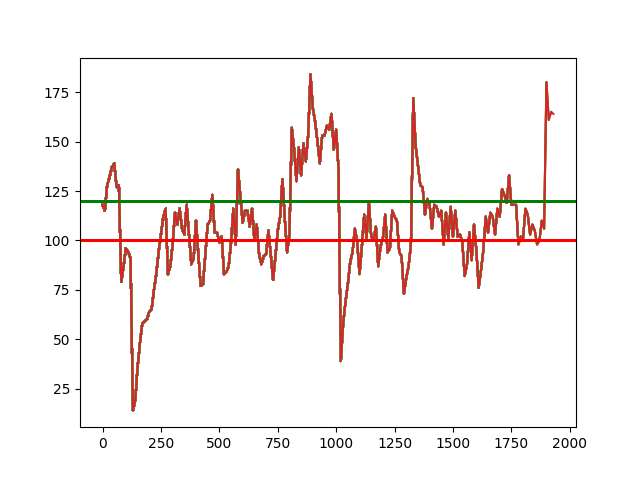
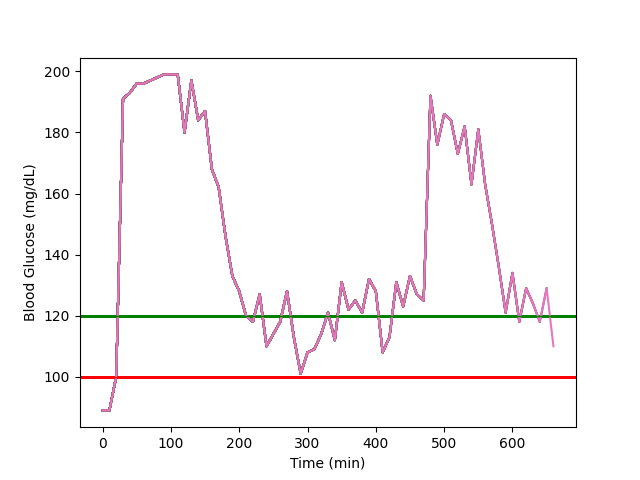
Added comments. Added README.md. Refactoring code to make it more readable. Fixed behaviour of insulin pump when outside of safe range.

diff --git a/Blood.py b/Blood.py
@@ -4,55 +4,53 @@ import settings
 import numpy as np
 import matplotlib.pyplot as plt
 
-class Blood:
-    minute = 0
-    glucose_measurements = []
-    minutes = []
-    glucose = 0
-    insulin = 0
 
-    # Instance attribute
+class Blood:
+
+    # Set instance attributes
     def __init__(self, glucose=settings.DEFAULT_BLOOD_GLUCOSE, insulin=settings.DEFAULT_BLOOD_INSULIN):
         self.glucose = glucose
         self.insulin = insulin
+        self.minute = 0
+        self.glucose_measurements = []
+        self.minutes = []
 
+    # Iteratively run every simulation frame.
     def run(self):
         self.glucose = self.get_next_blood_glucose()
         self.glucose_measurements.append(self.glucose)
         self.minutes.append(self.minute)
-        plt.plot(self.minutes, self.glucose_measurements)  # Plot the chart
-        plt.axline((0, settings.BLOOD_GLUCOSE_LOW_BOUNDARY), (1, settings.BLOOD_GLUCOSE_LOW_BOUNDARY), linewidth=2, color='r')
-        plt.axline((0, settings.BLOOD_GLUCOSE_HIGH_BOUNDARY), (1, settings.BLOOD_GLUCOSE_HIGH_BOUNDARY), linewidth=2, color='g')
-        plt.savefig('blood_graph.png')
+        self.save_line_graph_of_blood_glucose_png()
+        self.metabolize_insulin()
         self.minute = self.minute + 10
-        if self.insulin - settings.INSULIN_BLEED < 0 or self.insulin == 0:
-            self.insulin = 0
-        else:
-            self.insulin = self.insulin - settings.INSULIN_BLEED
 
+    # Per project requirements, the blood lgucose has a random component, but operates by having a "next glucose reading"
+    # that is adjecent to the current one. So, the glucose follows a trend.
     def get_next_blood_glucose(self):
-        anomaly = np.random.choice([True, False], p=[settings.PROBABILITY_OF_BLOOD_GLUCOSE_ANOMALY, 1 - settings.PROBABILITY_OF_BLOOD_GLUCOSE_ANOMALY])
+        anomaly = np.random.choice([True, False], p=[settings.PROBABILITY_OF_BLOOD_GLUCOSE_ANOMALY,
+                                                     1 - settings.PROBABILITY_OF_BLOOD_GLUCOSE_ANOMALY])
         if anomaly:
             glucose = np.random.choice(np.arange(settings.BLOOD_GLUCOSE_MIN, settings.BLOOD_GLUCOSE_MAX))
             return glucose
+
+        # Using two reference arrays, one with insulin value possibilities corresponding to another array with
+        # probabilities of glucose going down with a given blood insulin amount,
+        position_of_blood_insulin_rounded_in_reference_array = settings.BLOOD_INSULIN_LEVEL_REFERENCE.index(
+            math.ceil(self.insulin))
+        probability_blood_glucose_down = settings.PROBABILITY_OF_BLOOD_GLUCOSE_DECREASE_REFERENCE[
+            position_of_blood_insulin_rounded_in_reference_array]
+        glucose_down = np.random.choice([True, False],
+                                        p=[probability_blood_glucose_down, 1 - probability_blood_glucose_down])
+        # Now that we have chosen glucose up or down, we choose a new glucose, going either up or down within a window.
+        if glucose_down:
+            blood_glucose_change_window = np.arange(
+                max(settings.BLOOD_GLUCOSE_MIN, self.glucose - settings.TYPICAL_BLOOD_GLUCOSE_VARIATION), self.glucose)
+        # Case: glucose up
         else:
-            position_of_blood_insulin_rounded_in_reference_array = settings.BLOOD_INSULIN_LEVEL_REFERENCE.index(math.ceil(self.insulin))
-            probability_blood_glucose_down = settings.PROBABILITY_OF_BLOOD_GLUCOSE_DECREASE_REFERENCE[position_of_blood_insulin_rounded_in_reference_array]
-            glucose_down = np.random.choice([True, False], p=[probability_blood_glucose_down, 1 - probability_blood_glucose_down])
-            if glucose_down:
-                if self.glucose - settings.TYPICAL_BLOOD_GLUCOSE_VARIATION < settings.BLOOD_GLUCOSE_MIN or self.glucose == settings.BLOOD_GLUCOSE_MIN:
-                    lower_number = settings.BLOOD_GLUCOSE_MIN
-                else:
-                    lower_number = self.glucose - settings.TYPICAL_BLOOD_GLUCOSE_VARIATION
-                blood_glucose_change_window = np.arange(lower_number, self.glucose + 1)
-            else:
-                if self.glucose + settings.TYPICAL_BLOOD_GLUCOSE_VARIATION > settings.BLOOD_GLUCOSE_MAX or self.glucose == settings.BLOOD_GLUCOSE_MAX:
-                    higher_number = settings.BLOOD_GLUCOSE_MAX
-                else:
-                    higher_number = self.glucose + settings.TYPICAL_BLOOD_GLUCOSE_VARIATION
-                blood_glucose_change_window = np.arange(self.glucose, higher_number)
-            glucose = np.random.choice(blood_glucose_change_window)
-            return glucose
+            blood_glucose_change_window = np.arange(self.glucose, min(settings.BLOOD_GLUCOSE_MAX,
+                                                                      self.glucose + settings.TYPICAL_BLOOD_GLUCOSE_VARIATION))
+        glucose = np.random.choice(blood_glucose_change_window)
+        return glucose
 
     def get_glucose(self):
         return self.glucose
@@ -64,15 +62,29 @@ class Blood:
         if len(self.glucose_measurements) >= 3:
             vf = (self.glucose_measurements[-1] - self.glucose_measurements[-2]) / time_interval_minutes
             vi = (self.glucose_measurements[-2] - self.glucose_measurements[-3]) / time_interval_minutes
-            #print("Glucose[-1]: " + str(self.glucose_measurements[-1]))
-            #print("Glucose[-2]: " + str(self.glucose_measurements[-2]))
-            #print("vi: " + str(vi))
-            #print("vf: " + str(vf))
             return (vf - vi) / time_interval_minutes
         return 0
 
     def on_insulin_injected(self, amount):
-        if self.insulin + amount > settings.BLOOD_INSULIN_LEVEL_REFERENCE[-1] or self.insulin == settings.BLOOD_INSULIN_LEVEL_REFERENCE[-1]:
+        if self.insulin + amount > settings.BLOOD_INSULIN_LEVEL_REFERENCE[-1] or self.insulin == \
+                settings.BLOOD_INSULIN_LEVEL_REFERENCE[-1]:
             self.insulin = settings.BLOOD_INSULIN_LEVEL_REFERENCE[-1]
         else:
             self.insulin = self.insulin + amount
+
+    def metabolize_insulin(self):
+        if self.insulin - settings.INSULIN_UNITS_METABOLIZED_PER_10_MIN < 0 or self.insulin == 0:
+            self.insulin = 0
+        else:
+            self.insulin = self.insulin - settings.INSULIN_UNITS_METABOLIZED_PER_10_MIN
+
+    # Purely Visual
+    def save_line_graph_of_blood_glucose_png(self):
+        plt.plot(self.minutes, self.glucose_measurements)  # Plot the chart
+        plt.axline((0, settings.BLOOD_GLUCOSE_LOW_BOUNDARY), (1, settings.BLOOD_GLUCOSE_LOW_BOUNDARY), linewidth=1,
+                   color='r')
+        plt.axline((0, settings.BLOOD_GLUCOSE_HIGH_BOUNDARY), (1, settings.BLOOD_GLUCOSE_HIGH_BOUNDARY), linewidth=1,
+                   color='g')
+        plt.xlabel('Time (min)')
+        plt.ylabel('Blood Glucose (mg/dL)')
+        plt.savefig('blood_graph.png')

diff --git a/prg.py b/prg.py
@@ -1,56 +1,71 @@
-# Design: 1.5 hrs
-# Writing Logic: 2 hr
-# Troubleshooting graphic issues: 4 hr
-# Testing: 7 hr
+
+# prg is the main part of the software that runs in a loop to simulate everything.
 
 import PySimpleGUI as psg
-import multiprocessing
-import matplotlib.pyplot as plt
-import numpy as np
-import time
 import settings
 from Blood import Blood
 from InsulinPump import InsulinPump
 
+
+# Update the "Auto-run" Text Button  text based on auto-run status of prg.
 def update_auto_run_text(auto_run, window):
     if auto_run:
         window["AutoRun"].update("AUTORUN: YES")
     else:
         window["AutoRun"].update("AUTORUN: NO")
 
+# Update the text for the alarm indicator
 def update_alarm_text(alarm, window):
     if alarm:
         window["Alarm"].update("ALARM: ARMED")
     else:
         window["Alarm"].update("ALARM: DISABLED")
 
+# Logic for making program automatically run or not.
 def get_timeout_based_on_auto_run(auto_run):
     if auto_run:
         return settings.TIME_BETWEEN_FRAMES_MS
     return None
 
+# Update all gui states at once.
+def update_gui(window, blood):
+    window["Image"].update(filename='blood_graph.png')
+    window["Insulin"].update(str(round(blood.get_insulin(), 2)) + " UNITS")
+    window["Glucose"].update(str(round(blood.get_glucose(), 2)) + " mg/dL")
+    window["PumpPower"].update(str(pump.power_state))
+    window["Battery"].update(str(round((pump.battery_voltage / settings.BATTERY_CAPACITY_MAX_VOLTAGE) * 100)) + "%")
+    update_auto_run_text(auto_run, window)
+    update_alarm_text(alarm, window)
+
+# Main loop to simulate everything
 if __name__ == "__main__":
-    # plt.ion()
+    # Initializing all variables
+    # PySimpleGui offers many themes and layout options. Set those here.
     psg.theme('Reddit')
-    layout = [[psg.Text('PUMP POWER.......................................................................'), psg.Text(key="PumpPower", text=settings.INSULIN_PUMP_DEFAULT_POWER_STATE)],
-              [psg.Text('BATTERY...............................................................................'), psg.Text(key="Battery", text="0")],
-              [psg.Text('INSULIN IN BLOODSTREAM:................................................'), psg.Text(key="Insulin", text="0")],
-              [psg.Text('GLUCOSE.............................................................................'), psg.Text(key="Glucose", text="0")],
+    layout = [[psg.Text('PUMP POWER.......................................................................'),
+               psg.Text(key="PumpPower", text=settings.INSULIN_PUMP_DEFAULT_POWER_STATE)],
+              [psg.Text('BATTERY...............................................................................'),
+               psg.Text(key="Battery", text="0")],
+              [psg.Text('INSULIN IN BLOODSTREAM:................................................'),
+               psg.Text(key="Insulin", text="0")],
+              [psg.Text('GLUCOSE.............................................................................'),
+               psg.Text(key="Glucose", text="0")],
               [psg.Image(key="Image", filename='blood_graph.png')],
-              [psg.Button(key="On", button_text='ON'), psg.Button(key="Off", button_text="OFF"), psg.Button(button_text="ADVANCE"), psg.Button(key="AutoRun", button_text="AUTORUN"), psg.Button(key="Alarm", button_text="ALARM")]]
-
-    # Create the Window
+              [psg.Button(key="On", button_text='ON'), psg.Button(key="Off", button_text="OFF"),
+               psg.Button(button_text="ADVANCE"), psg.Button(key="AutoRun", button_text="AUTORUN"),
+               psg.Button(key="Alarm", button_text="ALARM")]]
+    # UI pop up here
     window = psg.Window('Window Title', layout)
-
     pump = InsulinPump()
     blood = Blood()
     auto_run = settings.AUTO_ADVANCE_ANIMATION
     alarm = settings.ALARM_ENABLED
     timeout = get_timeout_based_on_auto_run(auto_run)
 
+    # Main loop to simulate the problem
+    # All button logic is below:
     while True:
-        event, values = window.read(timeout=timeout)
-
+        event, values = window.read(timeout=timeout) # ms to wait until the Read will return IF no other GUI events happen first If timout is None, then don't automatically run
         if event == psg.WIN_CLOSED:  # if user closes window or clicks cancel
             break
         if event == 'On':
@@ -71,17 +86,9 @@ if __name__ == "__main__":
                 alarm = True
                 pump.set_alarm(True)
 
+        # Run the blood and pump and update gui every frame.
         blood.run()
         pump.run(blood)
-
-        #Update Gui
-        window["Image"].update(filename='blood_graph.png')
-        window["Insulin"].update(str(round(blood.get_insulin(), 2)) + " UNITS")
-        window["Glucose"].update(str(round(blood.get_glucose(), 2)) + " mg/dL")
-        window["PumpPower"].update(str(pump.power_state))
-        window["Battery"].update(str(round((pump.battery_voltage/settings.BATTERY_CAPACITY_MAX_VOLTAGE)*100)) + "%")
-        update_auto_run_text(auto_run, window)
-        update_alarm_text(alarm, window)
+        update_gui(window, blood)
 
     window.close()
-

diff --git a/InsulinPump.py b/InsulinPump.py
@@ -1,22 +1,29 @@
 import settings
 import numpy as np
-import matplotlib.pyplot as plt
 import PySimpleGUI as psg
 
-class InsulinPump:
-    glucose_accelerations = []
 
-    # Instance attribute
+# Only fires if alarm is on
+def safety_check(blood):
+    if blood.get_glucose() < settings.BLOOD_GLUCOSE_LOW_BOUNDARY:
+        psg.popup('WARNING!', 'GLUCOSE < 100 mg/dL. EAT SOMETHING IMMEDIATELY.')
+
+
+class InsulinPump:
+
+    # Set all attributes
     def __init__(self):
         self.battery_voltage = settings.BATTERY_CAPACITY_MAX_VOLTAGE
         self.alarm = settings.ALARM_ENABLED
         self.power_state = settings.INSULIN_PUMP_DEFAULT_POWER_STATE
+        self.glucose_accelerations = []
 
+    # Main simulation frame method here
     def run(self, blood):
         if self.power_state:
             self.battery_check()
             if self.alarm:
-                self.safety_check(blood)
+                safety_check(blood)
             self.compute_injection(blood)
 
     def turn_on(self):
@@ -28,31 +35,30 @@ class InsulinPump:
     def set_alarm(self, alarm):
         self.alarm = alarm
 
+    # Fulfills project insulting injection requirement.
+    # Computed injection found by getting current blood glucose acceleration and finding out what that is as a percent
+    # of the average acceleration. Very Complicated. I don't really know how this works exactly, it mutated. One of those
+    # funny software engineering monsters.
+    # TODO: Does it make sense that blood is capable of telling the pump its acceleration? No. Change this to be
+    #  computing only the pump.
     def compute_injection(self, blood):
         self.drain_battery(settings.INSULIN_CHECK_BATTERY_TOLL_VOLTAGE)
-        if blood.get_glucose() > settings.BLOOD_GLUCOSE_LOW_BOUNDARY:
+        if blood.get_glucose() > settings.BLOOD_GLUCOSE_HIGH_BOUNDARY:
             glucose_acceleration = blood.get_blood_glucose_acceleration()
             self.glucose_accelerations.append(glucose_acceleration)
             if glucose_acceleration > 0:
-                print(self.get_average_glucose_acceleration())
                 percent_power = np.abs(glucose_acceleration / self.get_average_glucose_acceleration())
                 self.drain_battery(settings.INSULIN_INJECT_BATTERY_TOLL_VOLTAGE)
-                blood.on_insulin_injected(percent_power * settings.STANDARD_INSULIN_DOSE)
+                blood.on_insulin_injected(percent_power * settings.STANDARD_INSULIN_DOSE_UNITS)
             if glucose_acceleration == 0:
                 self.drain_battery(settings.INSULIN_INJECT_BATTERY_TOLL_VOLTAGE)
-                blood.on_insulin_injected(settings.STANDARD_INSULIN_DOSE)
-
-    def safety_check(self, blood):
-        if blood.get_glucose() < settings.BLOOD_GLUCOSE_LOW_BOUNDARY:
-            psg.popup('WARNING!', 'GLUCOSE < 100 mg/dL. EAT SOMETHING IMMEDIATELY.')
-            #layout = [[psg.Text('WARNING: EAT NOW!!!')]]
-            #window = psg.Window(title='WARNING!', layout=layout)
+                blood.on_insulin_injected(settings.STANDARD_INSULIN_DOSE_UNITS)
 
     def get_average_glucose_acceleration(self):
         return sum(self.glucose_accelerations) / len(self.glucose_accelerations)
 
-    def drain_battery(self, voltage):
-        new_voltage = self.battery_voltage - voltage
+    def drain_battery(self, voltage_to_drain):
+        new_voltage = self.battery_voltage - voltage_to_drain
         if new_voltage <= settings.BATTERY_CAPACITY_MIN_VOLTAGE:
             new_voltage = settings.BLOOD_GLUCOSE_MIN
         self.battery_voltage = new_voltage

diff --git a/settings.py b/settings.py
@@ -1,8 +1,6 @@
-import numpy as np
-
 AUTO_ADVANCE_ANIMATION = True
 ALARM_ENABLED = False
-INSULIN_PUMP_DEFAULT_POWER_STATE = False
+INSULIN_PUMP_DEFAULT_POWER_STATE = True
 BLOOD_GLUCOSE_HIGH_BOUNDARY = 120
 BLOOD_GLUCOSE_LOW_BOUNDARY = 100
 DEFAULT_BLOOD_GLUCOSE = 100
@@ -11,8 +9,8 @@ BLOOD_GLUCOSE_MAX = 200
 BLOOD_GLUCOSE_MIN = 0
 BLOOD_INSULIN_MIN = 0
 TYPICAL_BLOOD_GLUCOSE_VARIATION = 20
-STANDARD_INSULIN_DOSE = 5
-INSULIN_BLEED = 15
+STANDARD_INSULIN_DOSE_UNITS = 5
+INSULIN_UNITS_METABOLIZED_PER_10_MIN = 15
 BATTERY_CAPACITY_MAX_VOLTAGE = 9
 INSULIN_CHECK_BATTERY_TOLL_VOLTAGE = 0.025
 INSULIN_INJECT_BATTERY_TOLL_VOLTAGE = 0.05
@@ -23,4 +21,4 @@ BLOOD_INSULIN_LEVEL_REFERENCE = [0, 1, 2, 3, 4, 5, 6, 7, 8, 9, 10, 11, 12, 13, 1
                                  24, 25, 26, 27, 28, 29, 30]
 PROBABILITY_OF_BLOOD_GLUCOSE_DECREASE_REFERENCE = [1/30, 1 / 30, 2 / 30, 3 / 30, 4 / 30, 5 / 30, 6 / 30, 7 / 30, 8 / 30, 9 / 30, 10 / 30, 11 / 30, 12/ 30, 13 / 30, 14 / 30, 15 / 30,
                                                    16 / 30, 17 / 30, 18 / 30, 19 / 30, 20 / 30, 21 / 30, 22 / 30, 23 / 30, 24 / 30, 25 / 30, 26 / 30, 27 / 30, 28 / 30, 29 / 30, 30 / 30]
-PROBABILITY_OF_BLOOD_GLUCOSE_ANOMALY = 0.05
+PROBABILITY_OF_BLOOD_GLUCOSE_ANOMALY = 0.03

diff --git a/README.md b/README.md
@@ -1,0 +1,23 @@
+# Hayden Baldwin | NitroStudios | Feb 1 2023
+Total Hours: 14.5
+7 testing
+5 UI issues
+2.5 Logic
+
+## Goals:
+1. Simulates blood glucose of a diabetic person with insulin injection. 
+2. If velocity of blood glucose is positive but acceleration is zero, inject a standard amount of insulin x units, unless blood glucose is in the safe range. 
+3. Blood has insulin capacity. Min and max. Insulin is metabolized (removed from) [in] the blood at a of x units/10 minutes. 
+4. The more insulin in the blood, the more likely blood glucose is to reduce. 
+5. There is a probability of an anomaly in insulin (i.e., jumping randomly). 
+6. Blood glucose is not completely random, but a **trend**, influenced by insulin injection. 
+7. Object-oriented. 
+8. UI with line graph of blood glucose over time. 
+9. Ability to turn on and off pump to show insulin pump's effectiveness.
+10. Max blood glucose in 200 mg/dL.
+11. Toggleable alarm.
+12. Battery simulated.
+13. If blood glucose is increasing and is in high range, and has positive acceleration, inject a computed amount.
+
+## Non-goals:
+1. [ ] Perfectly staying between the low and high boundaries for blood glucose.
